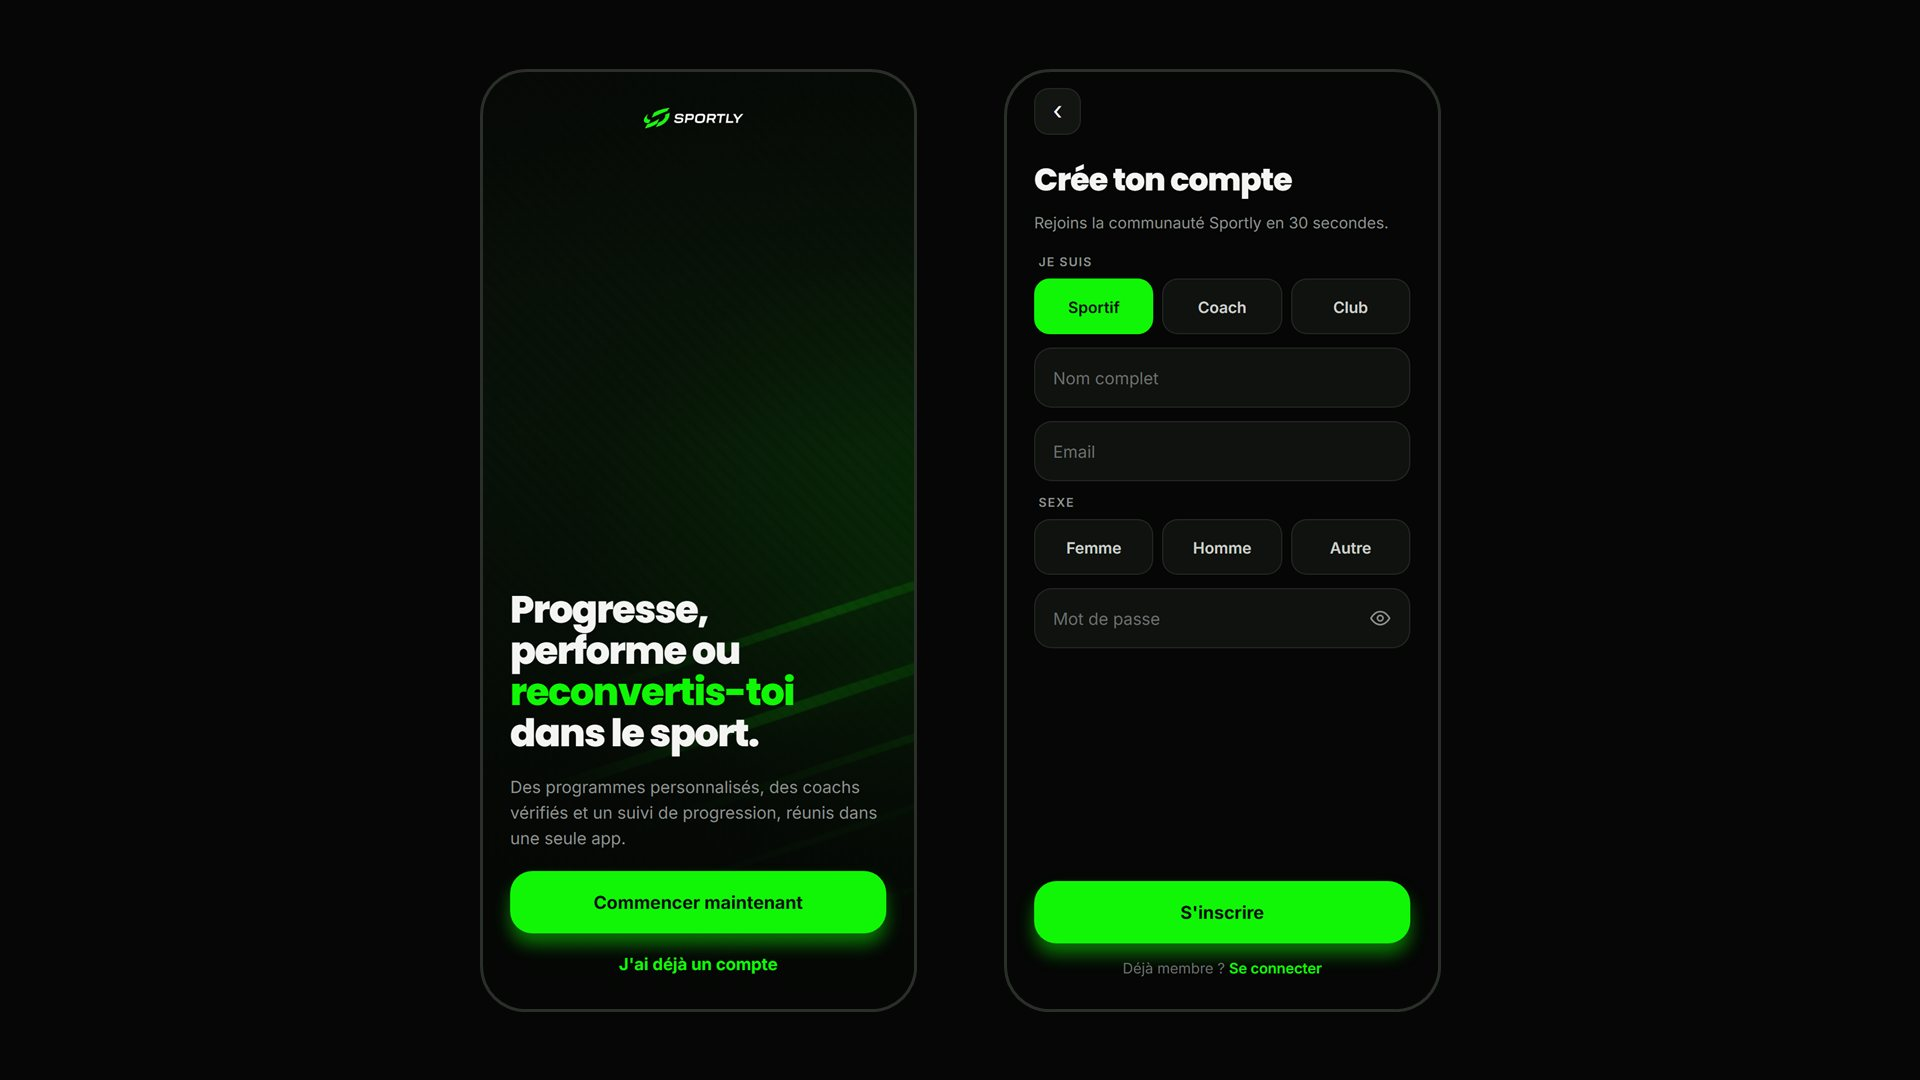
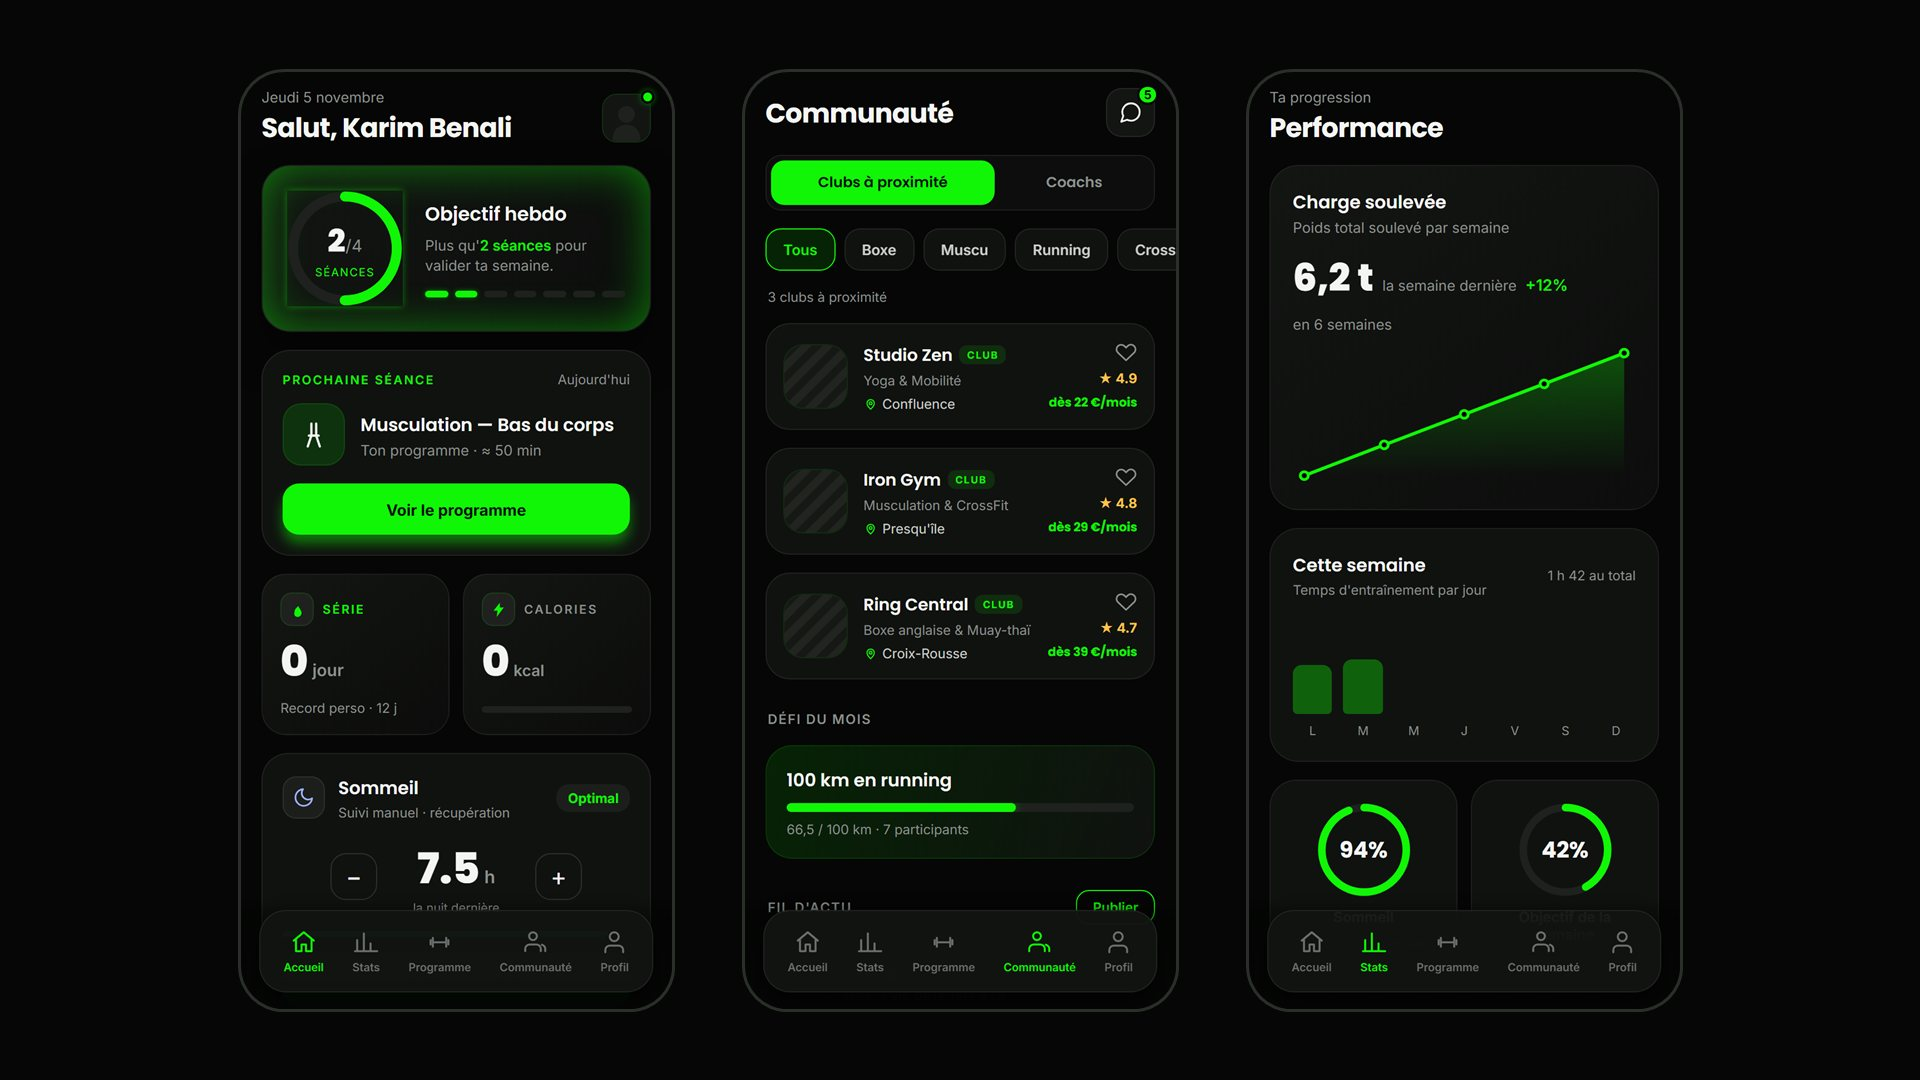
feat: capture Sportly avec les écrans connectés
Nouvelle image : accueil, communauté (annuaire des clubs) et statistiques,
capturés avec le compte de démo sur le backend local. Texte alternatif
mis à jour.

diff --git a/app/data/projects.ts b/app/data/projects.ts
@@ -234,12 +234,13 @@ export const projects: Project[] = [
     learnings:
       "Tenir le rôle de tech lead m’a appris qu’un socle commun posé tôt (modèle de données, authentification, routage par module, client API) permet à chacun d’avancer sur son lot sans bloquer les autres. Modéliser un domaine complet, des prestataires aux créneaux, réservations et avis, m’a obligé à fixer les règles métier avant d’écrire le code. Enfin, brancher moi-même les écrans sur l’API m’a montré l’importance d’un contrat clair entre le front et le back.",
     links: { demo: null, repo: null },
-    // Captures réelles de l'app (version web Expo, sans backend) : accueil et inscription.
+    // Captures réelles de l'app (Expo web + backend local, compte de démo des seeds) :
+    // accueil, communauté (annuaire des clubs) et statistiques.
     image: {
       src: "/projects/sportly.jpg",
       width: 1920,
       height: 1080,
-      alt: "Deux écrans de l’application Sportly : l’accueil et la création de compte",
+      alt: "Trois écrans de l’application Sportly : l’accueil avec l’objectif de la semaine, l’annuaire des clubs à proximité et les statistiques de progression",
     },
   },
 ];
